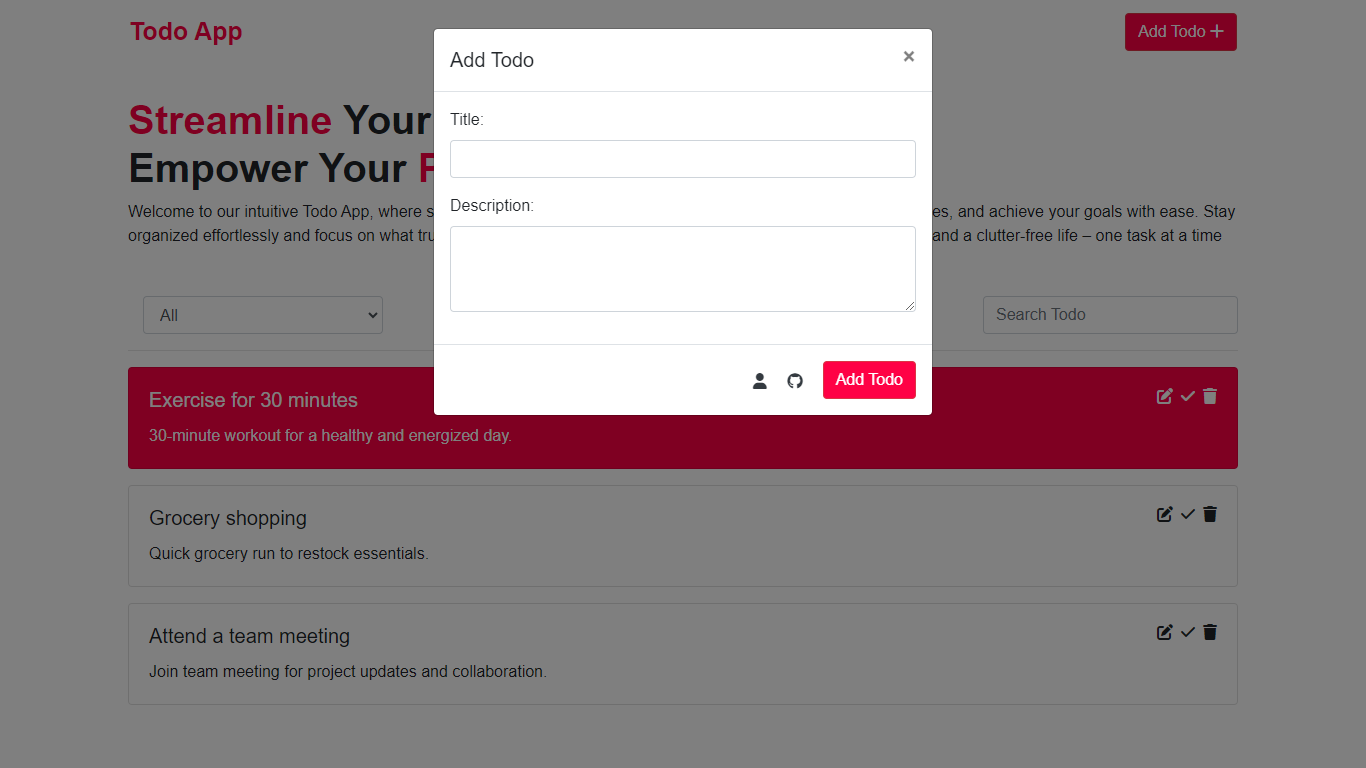
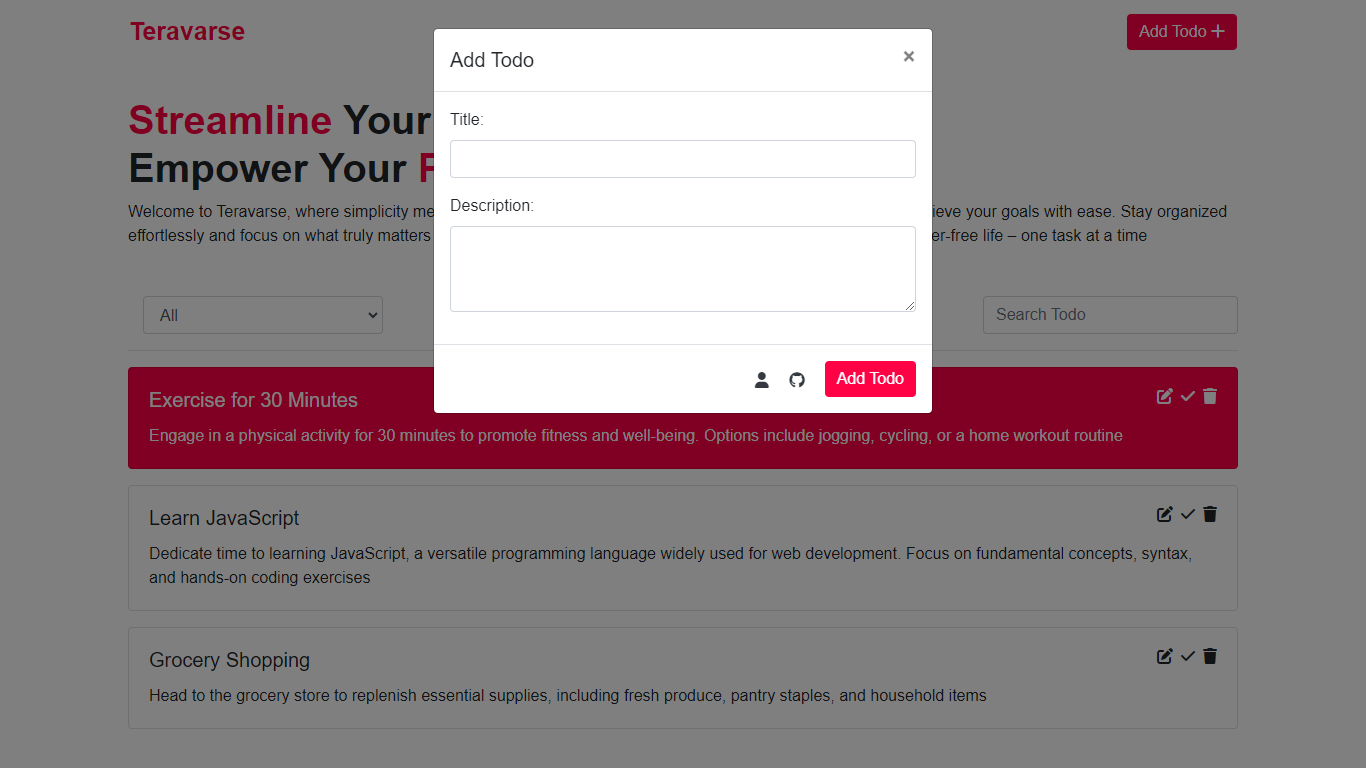
updated readme and screenshots

diff --git a/index.html b/index.html
@@ -139,7 +139,7 @@
         </div>
     </div>
 
-    <!-- Add this modal at the end of your body -->
+    <!-- delete confirmation modal -->
     <div class="modal fade" id="confirmDeleteModal" tabindex="-1" role="dialog"
         aria-labelledby="confirmDeleteModalLabel" aria-hidden="true">
         <div class="modal-dialog" role="document">

diff --git a/readme.md b/readme.md
@@ -1,10 +1,10 @@
 # Todo App
 
-![Todo App Screenshots](screenshots/todo-app.png)
+![Todo App Screenshots](screenshots/teravarse.png)
 
 ## About
 
-This Todo app is a simple and intuitive task management tool designed to help you stay organized and productive.
+Teravarse is a simple and intuitive task management tool designed to help you stay organized and productive.
 
 ## Features
 
@@ -31,4 +31,4 @@ This Todo app is a simple and intuitive task management tool designed to help yo
 
 1. Clone the repository.
    ```bash
-   git clone https://github.com/MuhammadKaifNazeer/todo-app.git
+   https://github.com/MuhammadKaifNazeer/teravarse.git
